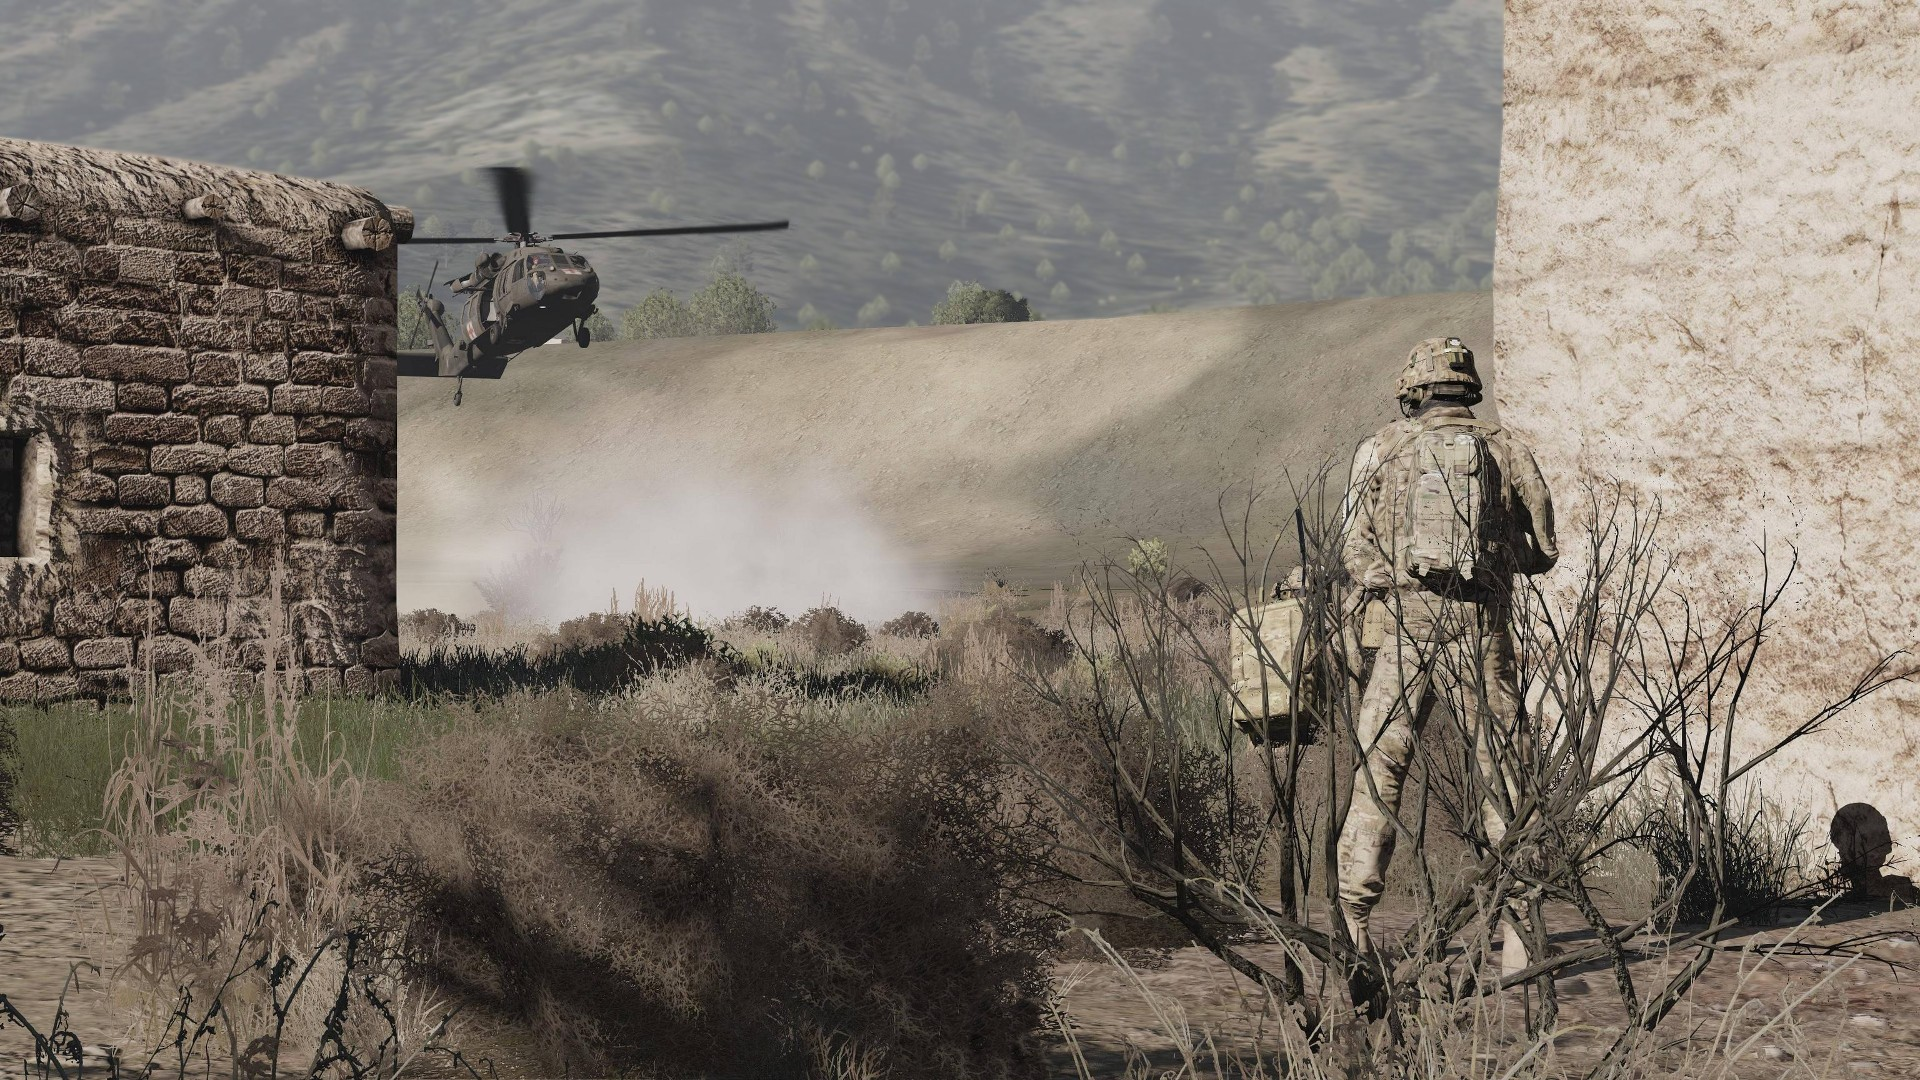
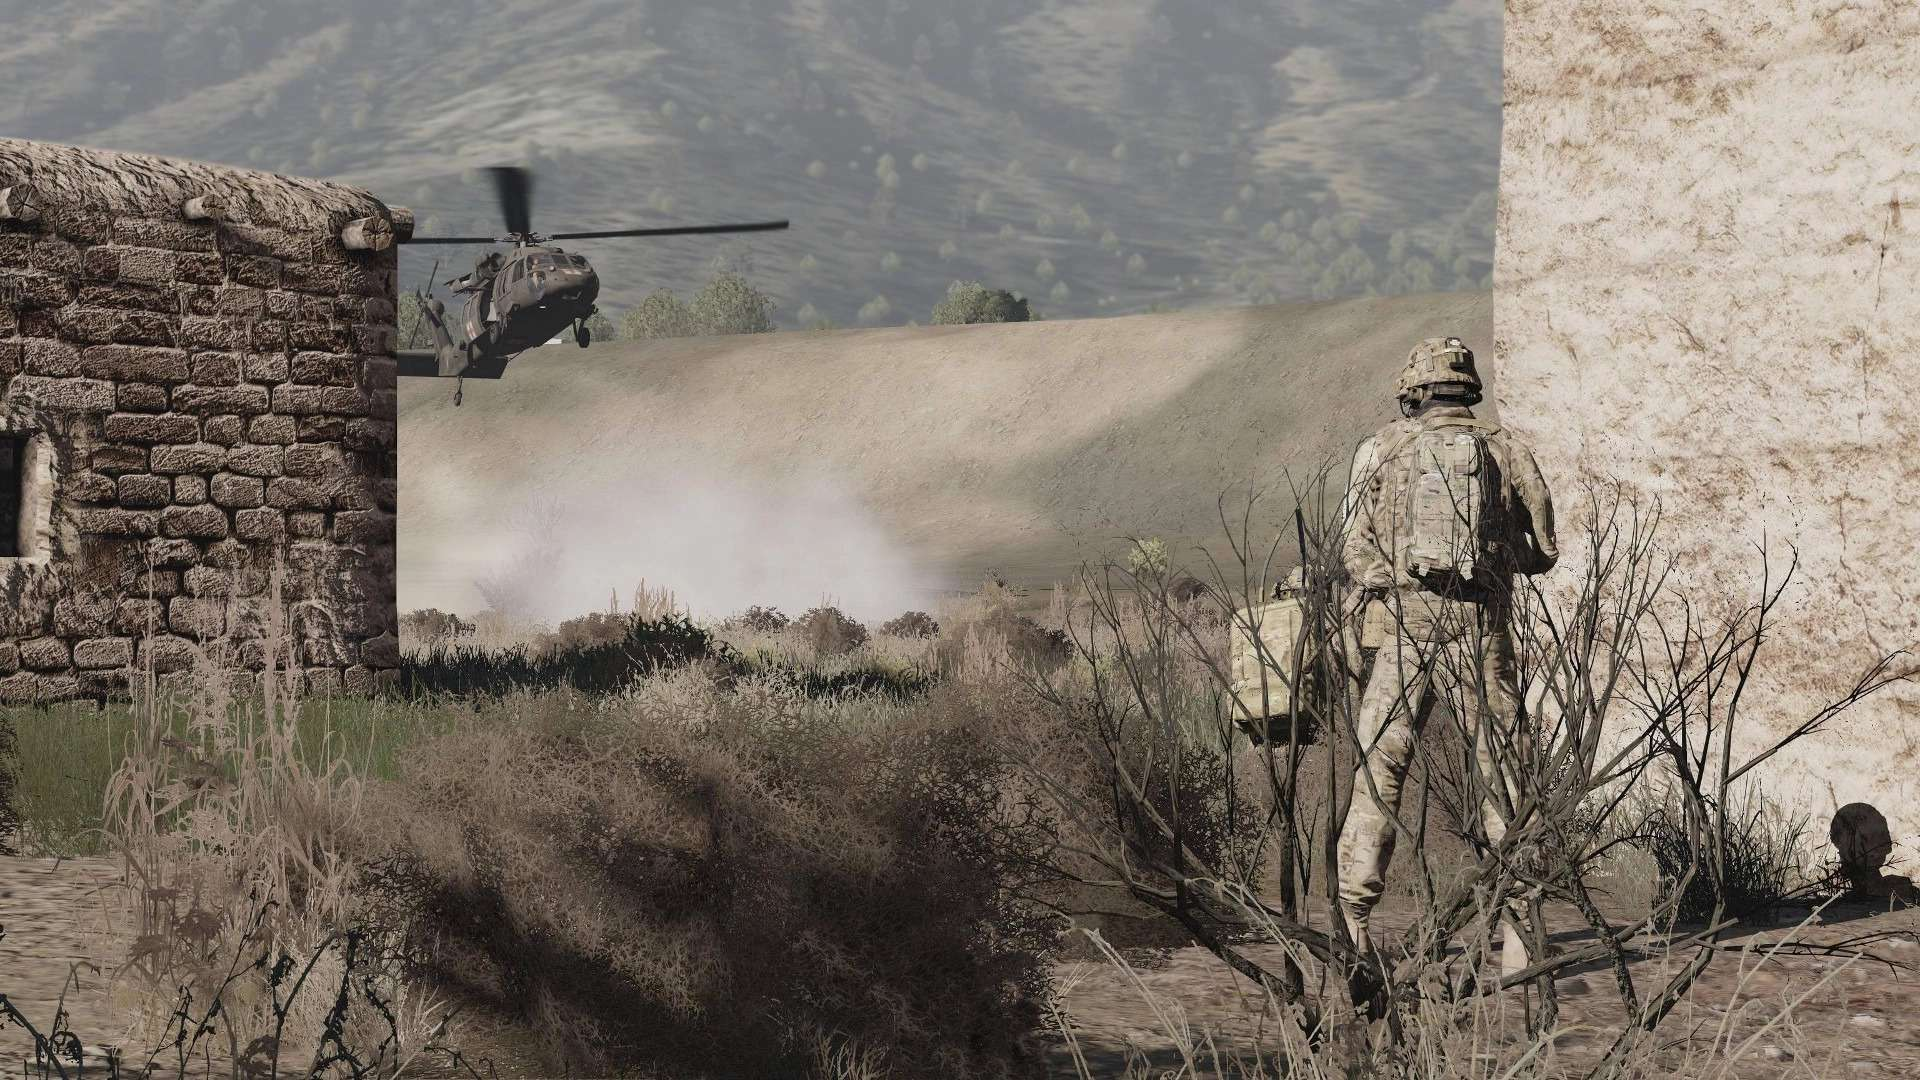
new smaller header

diff --git a/src/components/Header.vue b/src/components/Header.vue
@@ -18,7 +18,7 @@ export default {};
     position: relative;
     z-index: 0;
     background-color: transparent;
-    background: linear-gradient(360deg, #000000 0%, rgba(51, 51, 51, 0) 50%), url('~@/assets/header.webp');
+    background: linear-gradient(360deg, #000000 0%, rgba(51, 51, 51, 0) 50%), url('~@/assets/header.jpg');
     background-repeat: no-repeat;
     background-size: cover;
     background-position: center;
